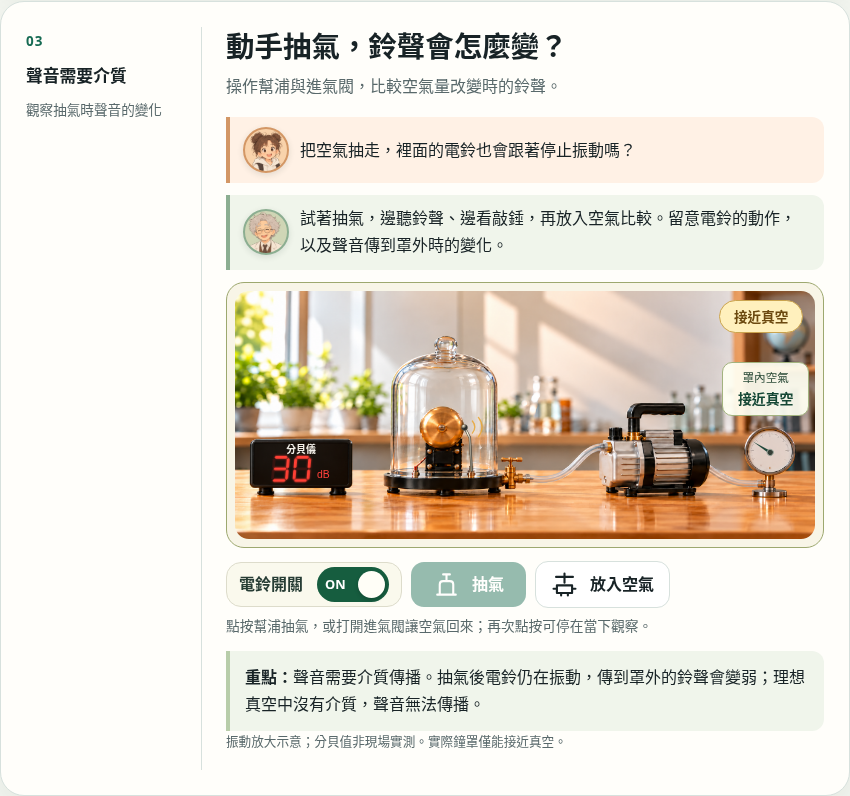
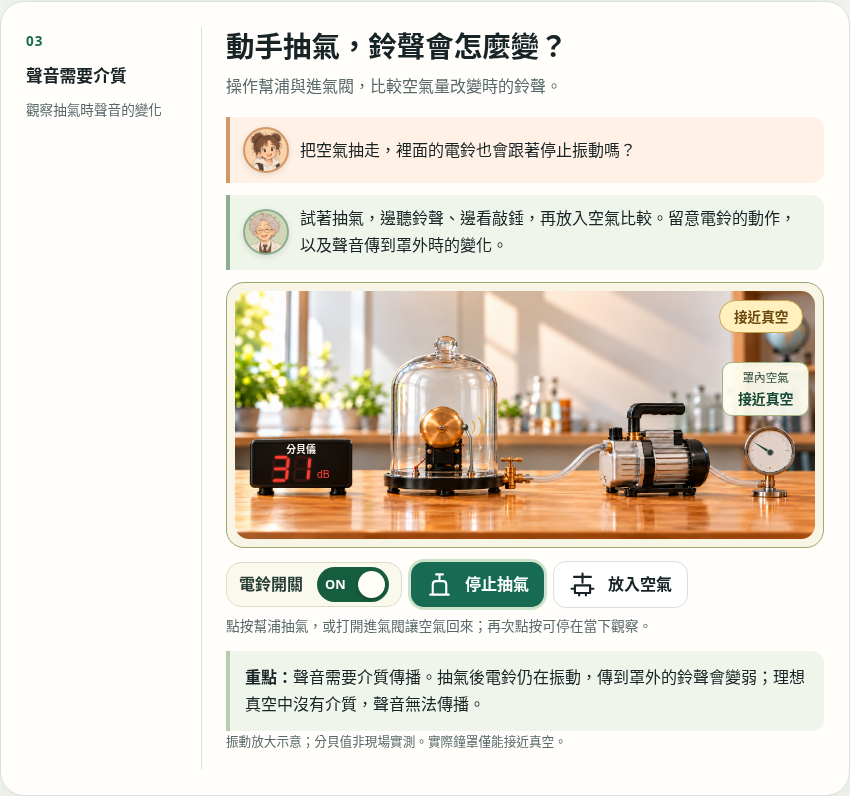
抽氣到下限仍保留停止抽氣按鈕

Changed region(s): [[0.4588, 0.6935, 0.7953, 0.7839], [0.3365, 0.5729, 0.3671, 0.603]]

diff --git a/units/2/parts/2.2/assets/vacuum-lab.js b/units/2/parts/2.2/assets/vacuum-lab.js
@@ -85,7 +85,7 @@ function updateMeter() {
 function render() {
   const airLabel = air > .67 ? '充足' : air > .15 ? '逐漸減少' : '接近真空';
   const heard = !power ? '未發聲' : air > .67 ? '清楚' : air > .15 ? '變弱' : '幾乎聽不見';
-  const modeLabel = mode === 'pump' ? '抽氣中' : mode === 'inlet' ? '進氣中' : air <= MIN_AIR + .0001 ? '接近真空' : power ? '觀察中' : '等待啟動';
+  const modeLabel = mode === 'pump' && air > MIN_AIR ? '抽氣中' : mode === 'inlet' ? '進氣中' : air <= MIN_AIR + .0001 ? '接近真空' : power ? '觀察中' : '等待啟動';
   lab.dataset.air = air.toFixed(5); lab.dataset.power = power ? 'on' : 'off';
   lab.dataset.mode = mode; lab.dataset.audio = audioState;
   powerButton.setAttribute('aria-checked', String(power));
@@ -93,7 +93,7 @@ function render() {
   text('vacuum-mode', modeLabel); text('vacuum-air-label', airLabel);
   text('vacuum-extract-label', mode === 'pump' ? '停止抽氣' : '抽氣');
   text('vacuum-admit-label', mode === 'inlet' ? '關閉進氣' : '放入空氣');
-  for (const button of pumpButtons) { button.disabled = air <= MIN_AIR + .0001; button.setAttribute('aria-pressed', String(mode === 'pump')); }
+  for (const button of pumpButtons) { button.disabled = false; button.setAttribute('aria-pressed', String(mode === 'pump')); }
   for (const button of inletButtons) { button.disabled = air >= .99999; button.setAttribute('aria-pressed', String(mode === 'inlet')); }
   pumpButtons[0].setAttribute('aria-label', mode === 'pump' ? '停止抽氣' : '點按幫浦抽氣');
   inletButtons[0].setAttribute('aria-label', mode === 'inlet' ? '關閉進氣閥' : '打開進氣閥，放入空氣');
@@ -114,13 +114,13 @@ function tick(now) {
   frame = 0;
   const delta = lastTime === null ? 0 : Math.min(.05, (now - lastTime) / 1000);
   lastTime = now; phase += delta;
-  if (mode === 'pump') { air = Math.max(MIN_AIR, air - delta * .16); if (air <= MIN_AIR) mode = 'idle'; }
+  if (mode === 'pump') air = Math.max(MIN_AIR, air - delta * .16);
   else if (mode === 'inlet') { air = Math.min(1, air + delta * .245); if (air >= 1) mode = 'idle'; }
   drawHammer(); render();
-  if (power || mode !== 'idle') frame = requestAnimationFrame(tick);
+  if (power || mode === 'inlet' || mode === 'pump' && air > MIN_AIR) frame = requestAnimationFrame(tick);
   else lastTime = null;
 }
-function ensureFrame() { if (!frame && (power || mode !== 'idle')) { lastTime = null; frame = requestAnimationFrame(tick); } }
+function ensureFrame() { if (!frame && (power || mode === 'inlet' || mode === 'pump' && air > MIN_AIR)) { lastTime = null; frame = requestAnimationFrame(tick); } }
 function setPower(enabled) {
   const request = ++soundRequest;
   power = enabled; audioError = '';
@@ -161,7 +161,7 @@ function fail(request) {
   drawHammer(); render();
 }
 function toggleMode(next) {
-  if (next === 'pump' && air <= MIN_AIR + .0001 || next === 'inlet' && air >= .99999) return;
+  if (next === 'inlet' && air >= .99999) return;
   mode = mode === next ? 'idle' : next;
   render(); ensureFrame();
 }

diff --git a/units/2/parts/2.2/index.html b/units/2/parts/2.2/index.html
@@ -295,6 +295,6 @@
     })();
   </script>
   <script type="module" src="assets/sound-propagation.js?v=4"></script>
-  <script type="module" src="assets/vacuum-lab.js?v=5"></script>
+  <script type="module" src="assets/vacuum-lab.js?v=6"></script>
 </body>
 </html>

diff --git a/docs/reviews/unit-2.2-card03/review.md b/docs/reviews/unit-2.2-card03/review.md
@@ -6,7 +6,7 @@
 
 - `initial-off.png`：預設電鈴關閉、空氣充足，等待使用者啟動，沒有自動播放。
 - `desktop-pumping.png`：依最新指示沿用第一區塊的左側編號欄、右側標題與角色對話；實驗內保留完整玻璃鐘罩與黃銅電鈴、幫浦及指示表、進氣閥、暖木桌面及融入桌面的數位分貝儀。抽氣中的電鈴仍有敲錘動作，空氣指示與聲音輸出讀值隨抽氣改變；罩內不繪製空氣粒子。
-- `desktop-near-vacuum.png`：到下限時停止抽氣；電鈴持續運作，鈴聲幾乎聽不見，可放入空氣。
+- `desktop-near-vacuum.png`：到下限時空氣量不再下降，按鈕保持正常色彩與「停止抽氣」，仍可點擊；電鈴持續運作，鈴聲幾乎聽不見，可放入空氣。
 - `desktop-restored.png`：進氣後指針與聲音恢復，電鈴開關與運作狀態不被重設。
 - `mobile-390.png`：完整器材保留，電鈴開關與控制改為直向排列，分貝儀維持在同一張桌面的左側，與鐘罩留白分開；紅色讀值不截字、不溢出，圖上操作區至少 44×44 CSS 像素。
 
@@ -31,7 +31,7 @@ CHROMIUM_PATH=/usr/bin/chromium node --test tests/unit-2.2-vacuum.test.cjs tests
 - 圖上幫浦／進氣閥與下方按鈕操作一致，可中途停止、切換方向並保持單一時間軸。
 - 抽氣時聲源持續運作，指針與讀值同步；初始、抽氣、接近真空與進氣後均不顯示空氣粒子。
 - 直接量測實際 GainNode：空氣減少時增益下降，進氣後恢復；沒有只改狀態文字，也沒有重新起音或改變音高。
-- 接近真空與充足狀態有上下限，按鈕正確停用；回補空氣不重設電鈴開關。
+- 接近真空與充足狀態有上下限；抽氣到下限仍保持可操作的「停止抽氣」，空氣充足時進氣停用；回補空氣不重設電鈴開關。
 - 關閉、快速切換、鍵盤、手機實際觸控事件均正常。
 - 離開區塊停止音效與抽氣，返回不自動開聲，保留空氣量。
 - 320／390／768／1024 px 無水平溢出；完整器材沒有裁切，空氣讀值能容納文字。
@@ -78,3 +78,10 @@ CHROMIUM_PATH=/usr/bin/chromium node --test tests/unit-2.2-vacuum.test.cjs tests
 依使用者要求，空氣本身維持不可見，刪除鐘罩內的藍色示意點與生成邏輯。底圖本來就沒有固定粒子，無須重新改動器材照片；圖下注記移除「粒子」敘述，並校正敲錘金屬高光與桿身路徑對齊。保留玻璃反光與所有器材、聲音及分貝連動。
 
 更新初始／抽氣／接近真空／進氣恢復及 390px 手機截圖，確認藍色點不會隨操作重新出現。原粒子分布檢查改為各階段與窄螢幕均沒有粒子群組及藍色點，三區共 27 項回歸檢查通過。前述粒子設計紀錄屬於舊版歷程，現行畫面依本次寫實指示呈現。
+
+
+## 最新操作修訂：抽氣按鈕在下限仍可操作
+
+使用者要求抽氣到下限時保留「停止抽氣」，不要停用或變淡。已取消抽氣下限的自動待命與兩個抽氣入口的 disabled 條件；只將空氣量限制在原下限，持續停留也不再下降。按鈕、圖上幫浦、鍵盤及手機觸控都能停止／再啟動，進氣可直接切換方向。
+
+更新 `desktop-near-vacuum.png`，另增 `mobile-near-vacuum.png`，確認接近真空時綠色「停止抽氣」仍可見且正常啟用。三區共 27 項檢查通過，涵蓋下限長時間保持、停止／再啟動、音訊及分貝連動、觸控與無空氣示意點。未改變原接近真空的模型下限。

diff --git a/tests/README.md b/tests/README.md
@@ -71,7 +71,7 @@ CHROMIUM_PATH=/usr/bin/chromium node --test tests/unit-2.2-sound-propagation.tes
 CHROMIUM_PATH=/usr/bin/chromium node --test tests/unit-2.2-vacuum.test.cjs tests/unit-2.2-sound-propagation.test.cjs tests/unit-2.2.test.cjs
 ```
 
-鐘罩檢查包括預設靜音、實錄解碼、實際 AudioContext／媒體播放、圖上及下方控制一致、抽氣中途停止、進氣反向操作、上下限、初始／抽氣／接近真空／進氣恢復均不繪製空氣粒子、敲錘在低空氣量時持續動作，以及直接量測 GainNode 隨抽氣降低、進氣恢復，確認不是僅更新文字。另涵蓋開關／快速切換／鍵盤、離開區塊停止聲音且保留空氣量、手機觸控、320／390／768／1024 px 無溢出、點擊區尺寸與完整器材顯示。新增罩外分貝儀檢查逐聲道 RMS 讀值隨抽氣下降、進氣恢復，並在空氣量不變時暫停實際音訊驗證讀值清除；關閉顯示「—」、原狀態列與深綠色說明標籤移除。最新桌上型分貝儀與照片整合，檢查七段顯示器實際亮起的筆畫與 output 一致、器材實際位置命中、手機各尺寸不再出現空氣藍色點；320／390／768／1024px 儀表位於同一實驗桌內，與鐘罩留白超過圖寬 5%，空氣讀值維持單行。截圖與核可示意另保存於 `docs/reviews/unit-2.2-card03/`，操作通過不代替人工畫面對照。
+鐘罩檢查包括預設靜音、實錄解碼、實際 AudioContext／媒體播放、圖上及下方控制一致、抽氣中途停止、進氣反向操作、空氣量上下限、抽氣到下限仍啟用且保留「停止抽氣」、初始／抽氣／接近真空／進氣恢復均不繪製空氣粒子、敲錘在低空氣量時持續動作，以及直接量測 GainNode 隨抽氣降低、進氣恢復，確認不是僅更新文字。另涵蓋開關／快速切換／鍵盤、離開區塊停止聲音且保留空氣量、手機觸控、320／390／768／1024 px 無溢出、點擊區尺寸與完整器材顯示。新增罩外分貝儀檢查逐聲道 RMS 讀值隨抽氣下降、進氣恢復，並在空氣量不變時暫停實際音訊驗證讀值清除；關閉顯示「—」、原狀態列與深綠色說明標籤移除。最新桌上型分貝儀與照片整合，檢查七段顯示器實際亮起的筆畫與 output 一致、器材實際位置命中、手機各尺寸不再出現空氣藍色點；320／390／768／1024px 儀表位於同一實驗桌內，與鐘罩留白超過圖寬 5%，空氣讀值維持單行。截圖與核可示意另保存於 `docs/reviews/unit-2.2-card03/`，操作通過不代替人工畫面對照。
 
 2.2 共用格式另比對 1440／1024／768／390px 下第一至三區塊的側欄與主欄位置、內距、標題／說明字級與對齊、角色對話順序、重點框，並持續檢查第三區塊分貝儀與鐘罩間距。
 

diff --git a/units/2/parts/2.2/assets/README.md b/units/2/parts/2.2/assets/README.md
@@ -25,7 +25,7 @@
 
 - `vacuum-tabletop-lab.png` 依最新核可的桌上型分貝儀示意產生乾淨器材底圖；由左至右為分貝儀、完整玻璃鐘罩、電鈴、幫浦、管線與指示表。分貝儀與鐘罩之間保留間距，外殼、底座及接觸陰影直接融入同一張實驗桌；照片內沒有固定讀值、狀態文字、粒子或表針。
 - `vacuum-lab.css` 沿用本頁第一區塊的教學卡片版型，提供器材上的原生按鈕點擊區、電鈴開關與下方控制；手機版開關換行，圖上點擊區至少 44×44 CSS 像素。沒有音量或空氣量滑桿。
-- `vacuum-lab.js` 將電鈴電源、相對空氣量、抽氣／進氣分開管理。點擊幫浦或抽氣按鈕逐步減少空氣，再次點擊停止；進氣閥／放入空氣逐步恢復，切換方向會取代前一動作。
+- `vacuum-lab.js` 將電鈴電源、相對空氣量、抽氣／進氣分開管理。點擊幫浦或抽氣按鈕逐步減少空氣，再次點擊停止；進氣閥／放入空氣逐步恢復，切換方向會取代前一動作。到抽氣下限時只限制空氣量，不自動結束抽氣模式；圖上幫浦與下方按鈕維持啟用及「停止抽氣」狀態，使用者仍可停止、再啟動或改為進氣。
 - 空氣範圍 0.02～1 僅供內部定性模型，畫面不顯示百分比或壓力數字。依使用者最新指示，鐘罩內不再繪製代表空氣的藍色粒子，保留透明玻璃的寫實外觀；透過鈴聲、分貝儀及空氣指示觀察抽氣／進氣的變化。
 - 電鈴開啟時敲錘持續動作，與空氣量無關。聲音經 Web Audio GainNode 連續調整，滿空氣時增益 1，接近真空時約 0.0133；這是定性聽覺對照，並非實測壓力公式。播放器固定 100%、不改音高；沒有依賴行動瀏覽器可能忽略的 HTMLMediaElement.volume 來調整實驗音量。
 - 初始不自動播放，使用者開啟電鈴才建立音訊圖並播放本地 `electric-bell-loop.wav`。同一播放器循環使用；抽氣不重啟聲音、關閉立即停止，快速切換以請求序號避免舊播放承諾干擾新狀態。離開區塊或分頁時停止操作及聲音，空氣量保留，返回不自動開聲。

diff --git a/docs/decisions/unit-2.2-vacuum-lab.md b/docs/decisions/unit-2.2-vacuum-lab.md
@@ -39,3 +39,10 @@
 使用者要求寫實器材盡可能接近真實，指出空氣本身不可見、不需要藍色示意點。因此刪除第三區塊的粒子生成、透明度更新、SVG 群組及專用裁切區，並移除註記中的粒子敘述。保留透明玻璃底圖、敲錘、表針、定性空氣量、實際聲音增益及分貝讀值；第二區塊的縱波粒子模型不在此次修改範圍。
 
 檢查改為初始、抽氣、接近真空、進氣恢復及手機各尺寸均不存在空氣粒子，同時持續驗證音量與讀值連動。
+
+
+## 抽氣到下限時保留可操作按鈕
+
+依使用者指示，到接近真空的下限時不再自動將抽氣模式切回待命，也不停用圖上幫浦或下方抽氣按鈕。空氣量維持下限；按鈕維持正常色彩、`aria-pressed=true` 與「停止抽氣」，再次操作仍可停止，停下後也可再次啟動而不突破下限。進氣可直接取代抽氣模式，原空氣充足時的進氣限制保留。
+
+聲源關閉且已達抽氣下限時不持續要求動畫影格，但保留操作狀態；電鈴開啟時仍持續更新敲錘與音量讀值。驗證含下限停留、鍵盤停止／再啟動、直接點幫浦、手機觸控與進氣恢復。
